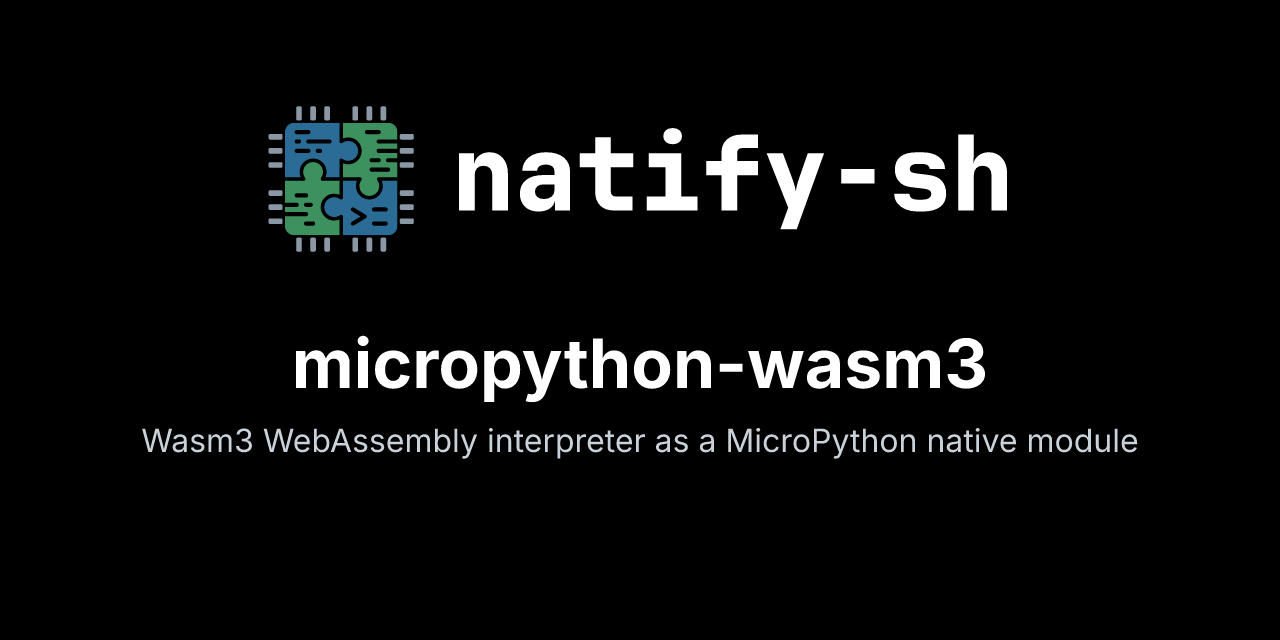
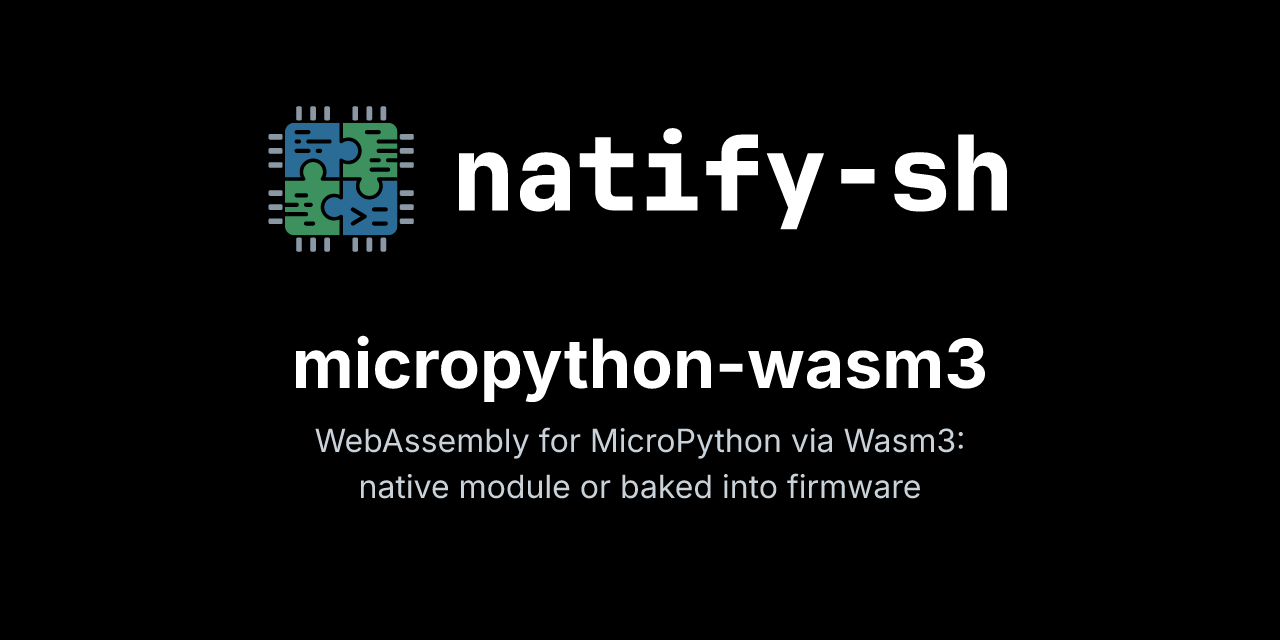
add: micropython-wasm3 repo data

Changed region(s): [[0.0938, 0.6562, 0.9062, 0.7188], [0.2812, 0.75, 0.7188, 0.7812]]

diff --git a/branding/social/build_social.py b/branding/social/build_social.py
@@ -42,7 +42,7 @@ REPOS = {
     "flutpak": "Flatpak manifests for sandboxed builds of Flutter apps",
     "cibuildmp": "cibuildwheel for MicroPython: build usermod and natmod native modules",
     "rp2040py": "RP2040 emulator in pure Python",
-    "micropython-wasm3": "Wasm3 WebAssembly interpreter as a MicroPython native module",
+    "micropython-wasm3": "WebAssembly for MicroPython via Wasm3: native module or baked into firmware",
 }
 
 W, H, SAFE = 1280, 640, 80

diff --git a/README.md b/README.md
@@ -50,11 +50,21 @@ No WABT build needed. Wheels for Linux (glibc and musl), Windows and macOS. An u
 WebAssembly from **CPython, PyPy and Pythonista**, with the JavaScript WebAssembly API: modules, instances, memory, globals and host functions. It runs on whichever backend is available:
 JavaScriptCore (including a `JSContext` in Pythonista on iOS), Node or Bun, or, when installed, wasmtime or wasm3. Plain Python, no dependencies, no C extension of its own.
 
+### MicroPython
+
+#### [micropython-wasm3](https://github.com/natify-sh/micropython-wasm3)
+![lang](https://img.shields.io/badge/C-%23A8B9CC?logo=c&logoColor=white)
+![lang](https://img.shields.io/badge/micropython-%232B2728?logo=micropython&logoColor=white)
+![license](https://img.shields.io/badge/license-MIT-%23008033)
+
+WebAssembly for MicroPython via the [Wasm3](https://github.com/wasm3/wasm3) interpreter: load a `.wasm` from the filesystem, the network or generated at run time, with no rebuild.
+Available as a native module (`.mpy`) for all `dynruntime.mk` architectures, or as a usermod baked into firmware (unix, Windows, webassembly, rp2). *Experimental — APIs may change.*
+
 -----
 
 <div align="center">
 
-[wabt-package](https://github.com/natify-sh/wabt-package) · [wasmext](https://github.com/natify-sh/py-wasmext) · [wasmhost](https://github.com/natify-sh/py-wasmhost)
+[wabt-package](https://github.com/natify-sh/wabt-package) · [wasmext](https://github.com/natify-sh/py-wasmext) · [wasmhost](https://github.com/natify-sh/py-wasmhost) · [micropython-wasm3](https://github.com/natify-sh/micropython-wasm3)
 
 </div>
 

diff --git a/profile/README.md b/profile/README.md
@@ -50,11 +50,21 @@ No WABT build needed. Wheels for Linux (glibc and musl), Windows and macOS. An u
 WebAssembly from **CPython, PyPy and Pythonista**, with the JavaScript WebAssembly API: modules, instances, memory, globals and host functions. It runs on whichever backend is available:
 JavaScriptCore (including a `JSContext` in Pythonista on iOS), Node or Bun, or, when installed, wasmtime or wasm3. Plain Python, no dependencies, no C extension of its own.
 
+### MicroPython
+
+#### [micropython-wasm3](https://github.com/natify-sh/micropython-wasm3)
+![lang](https://img.shields.io/badge/C-%23A8B9CC?logo=c&logoColor=white)
+![lang](https://img.shields.io/badge/micropython-%232B2728?logo=micropython&logoColor=white)
+![license](https://img.shields.io/badge/license-MIT-%23008033)
+
+WebAssembly for MicroPython via the [Wasm3](https://github.com/wasm3/wasm3) interpreter: load a `.wasm` from the filesystem, the network or generated at run time, with no rebuild.
+Available as a native module (`.mpy`) for all `dynruntime.mk` architectures, or as a usermod baked into firmware (unix, Windows, webassembly, rp2). *Experimental — APIs may change.*
+
 -----
 
 <div align="center">
 
-[wabt-package](https://github.com/natify-sh/wabt-package) · [wasmext](https://github.com/natify-sh/py-wasmext) · [wasmhost](https://github.com/natify-sh/py-wasmhost)
+[wabt-package](https://github.com/natify-sh/wabt-package) · [wasmext](https://github.com/natify-sh/py-wasmext) · [wasmhost](https://github.com/natify-sh/py-wasmhost) · [micropython-wasm3](https://github.com/natify-sh/micropython-wasm3)
 
 </div>
 
